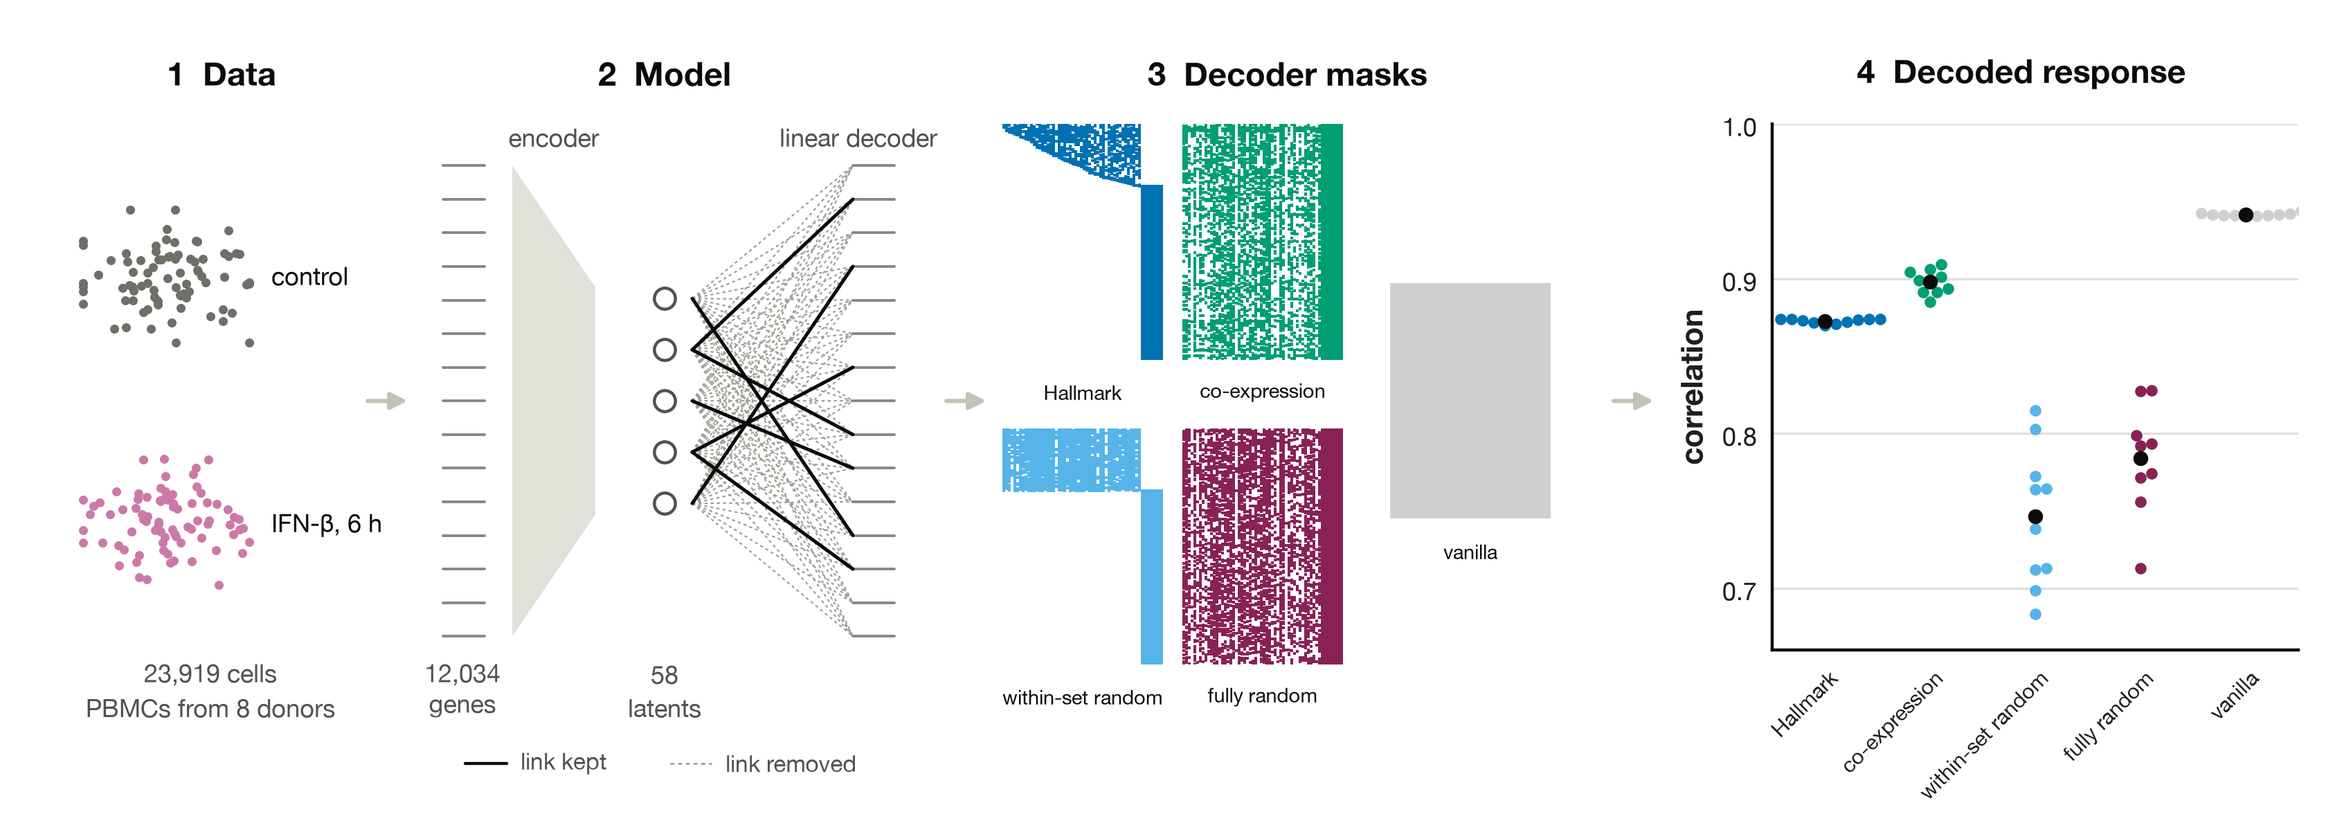
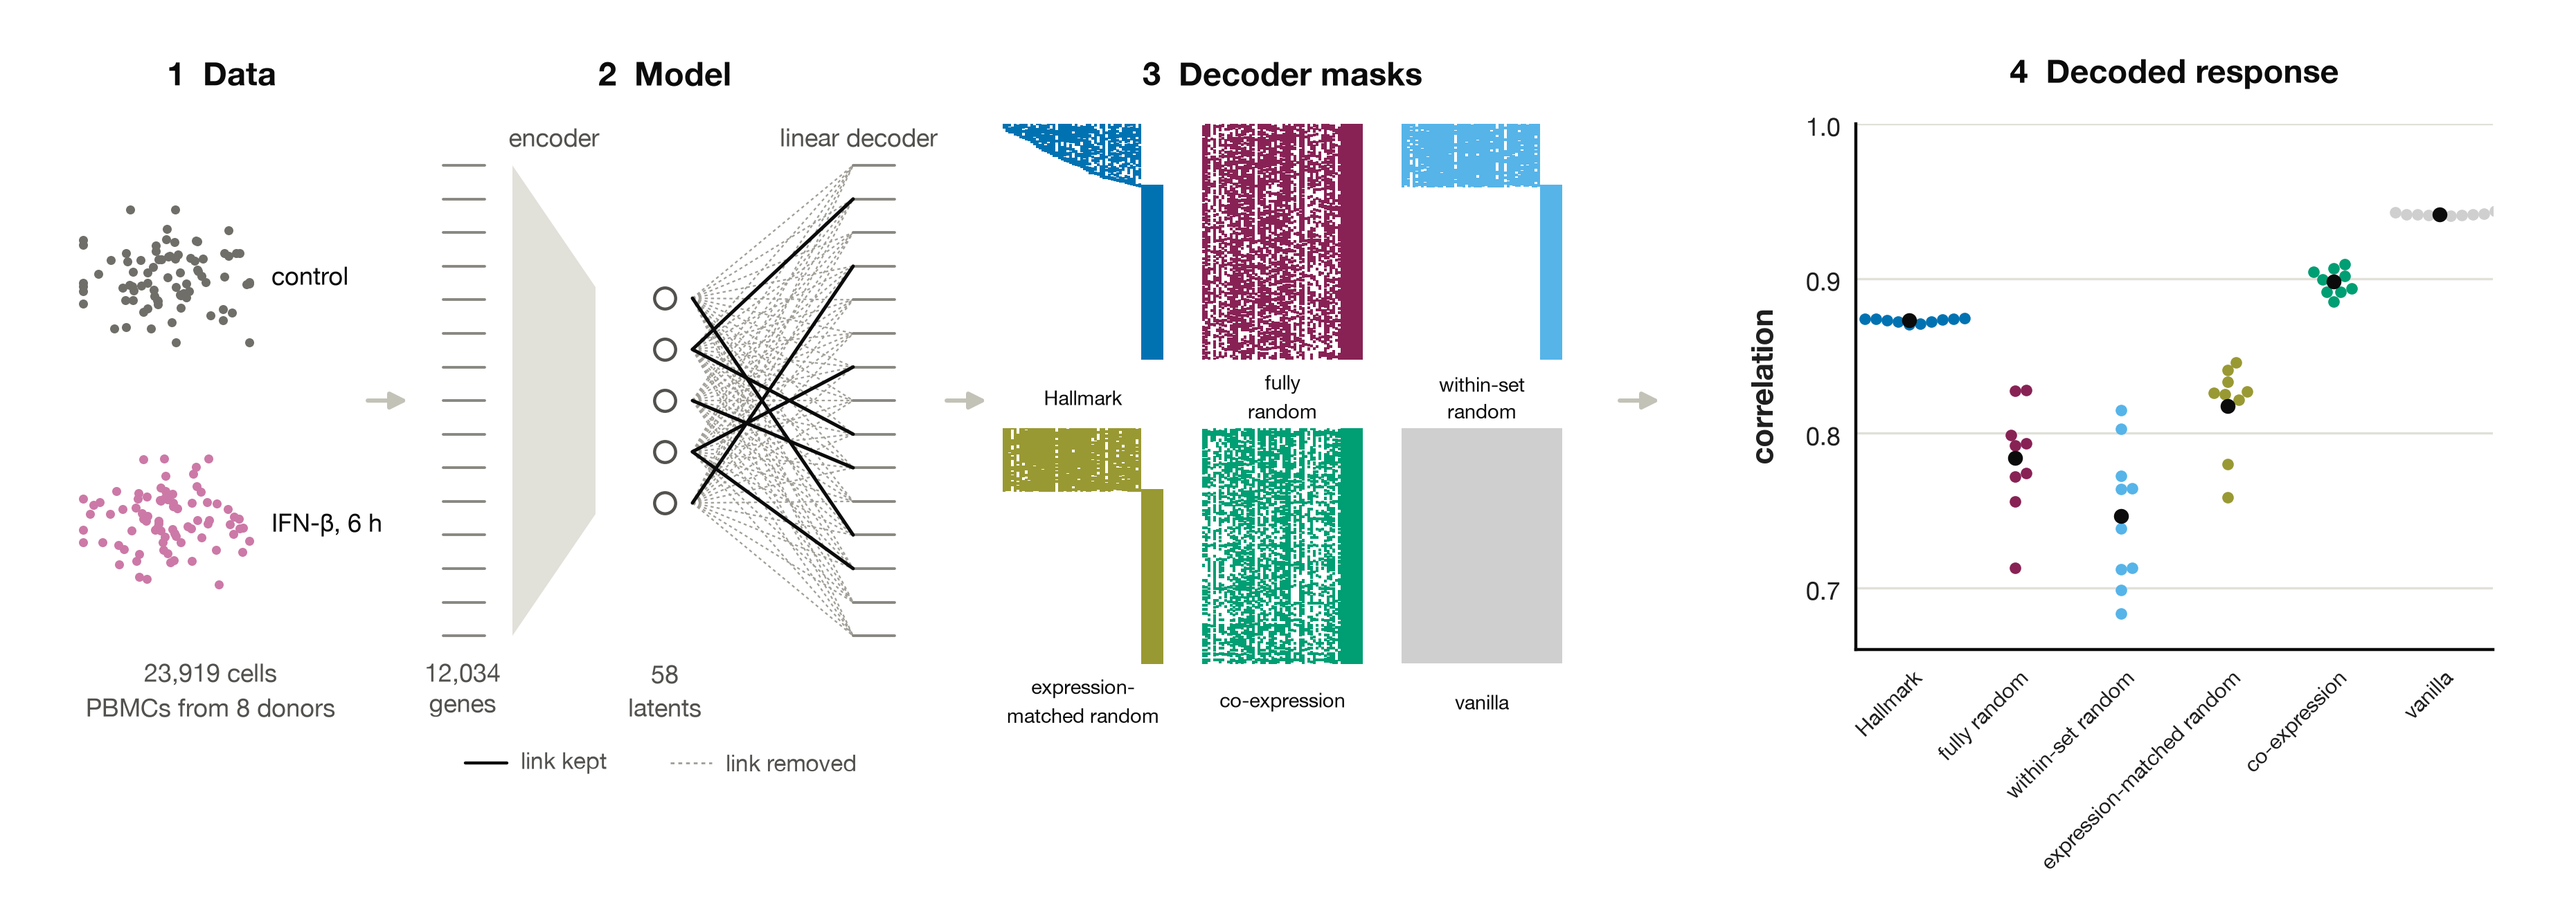
Draw six masks in the overview and pipeline, redraw the model schema

diff --git a/src/09b_model_schema.py b/src/09b_model_schema.py
@@ -1,0 +1,204 @@
+# Schema of the VAE (Methods, Model). Written to reports/figures/model.png and paper/figures/model.png, or to the directories
+# given as arguments. Standalone: it needs no tables. Each matrix is a solid: the height suggests its rows (the 12,034-row
+# plates are drawn shorter than to scale) and the depth its columns or cells (on a log scale).
+import math
+import sys
+from pathlib import Path
+
+import matplotlib
+
+matplotlib.use("Agg")
+import matplotlib.patches as mp
+import matplotlib.pyplot as plt
+from matplotlib.colors import to_rgb
+
+root = Path(__file__).resolve().parent.parent
+outs = [Path(a) for a in sys.argv[1:]] or [root / "reports" / "figures", root / "paper" / "figures"]
+
+ink, secondary, flow = "#0b0b0b", "#6b6a66", "#4d4d4b"  # text, brackets, arrows between layers
+C = dict(data=("#e3eef7", "#5b9bd5"), donor=("#f2f7fc", "#7aa6d0"), offsets=("#c4dbef", "#2f6fa8"), linear=("#dfe0f5", "#5b5fc7"),
+         relu=("#d3eeea", "#2a9d8f"), dropout=("#e4e4e0", "#8a8983"), mean=("#dcefdc", "#4c9a4c"), logvar=("#fde7c8", "#d98e04"),
+         latent=("#dde6ee", "#5f7a96"), free=("#f7f9fb", "#5f7a96"), mask=("#f1dfe8", "#882255"), weights=("#fafaf8", "#6b6a66"),
+         softmax=("#ecdcf0", "#a86fb5"))  # as in the pipeline figures where the parts coincide
+plt.rcParams.update({"font.family": "sans-serif", "font.sans-serif": ["Helvetica Neue", "Helvetica", "Arial", "DejaVu Sans"],
+                     "text.color": ink, "savefig.dpi": 300, "mathtext.default": "it"})
+
+W, H = 17.45, 8.95
+fig = plt.figure(figsize=(W * 0.52, H * 0.52))
+ax = fig.add_axes([0, 0, 1, 1]); ax.set(xlim=(0, W), ylim=(0, H)); ax.axis("off")
+
+FACE, UNIT, PLATE = 0.12, 0.01, 2.4  # width of a front face, height per unit of a small layer, height of a 12,034-row plate
+CELLS, LATENTS, DONORS = (0.15 * math.log10(n) for n in (16749, 58, 8))  # depth of a solid with that many columns
+cy = 5.8  # centre line of the encoder
+
+
+def mix(c, t, to=(1, 1, 1)):
+    return tuple(a + (b - a) * t for a, b in zip(to_rgb(c), to))
+
+
+def block(x, ymid, h, colour, depth, top=True, shade=0.3):
+    """A solid with sharp edges: front face in the fill colour, lighter top, darker side."""
+    fill, edge = colour
+    y0, dx, dy = ymid - h / 2, depth * 1.15, depth * 0.45
+    if top:
+        ax.add_patch(mp.Polygon([(x, y0 + h), (x + dx, y0 + h + dy), (x + FACE + dx, y0 + h + dy), (x + FACE, y0 + h)], fc=mix(fill, 0.55), ec=edge, lw=0.8, zorder=3))
+    ax.add_patch(mp.Polygon([(x + FACE, y0), (x + FACE + dx, y0 + dy), (x + FACE + dx, y0 + h + dy), (x + FACE, y0 + h)], fc=mix(fill, shade, to=to_rgb(edge)), ec=edge, lw=0.8, zorder=3))
+    ax.add_patch(mp.Rectangle((x, y0), FACE, h, fc=fill, ec=edge, lw=0.8, zorder=3.1))
+    return dict(x=x, r=x + FACE + dx, m=ymid, b=y0, t=y0 + h, dx=dx, dy=dy)
+
+
+def text(x, y, s, ha="center", va="center", fs=8, color=ink, **kw):
+    return ax.text(x, y, s, ha=ha, va=va, fontsize=fs, color=color, **kw)
+
+
+def mid(b):  # the middle of the horizontal projection of a solid
+    return b["x"] + (FACE + b["dx"]) / 2
+
+
+def above(b, s, fs=8):
+    text(mid(b), b["t"] + b["dy"] + 0.12, s, va="bottom", fs=fs)
+
+
+def below(b, s):
+    text(mid(b), b["b"] - 0.1, s, va="top")
+
+
+def beside(b, s, gap=0.1):  # next to the long edge, at mid-height
+    text(b["x"] - gap, b["m"], s, ha="right")
+
+
+def on_side(b, s):  # on the side face
+    text(b["x"] + FACE + b["dx"] / 2, b["m"] + b["dy"] / 2, s)
+
+
+def arrow(p0, p1, colour=flow, lw=0.7):
+    ax.annotate("", p1, p0, arrowprops=dict(arrowstyle="-|>", color=colour, lw=lw, mutation_scale=6, shrinkA=0, shrinkB=0), zorder=1)
+
+
+def line(xs, ys, colour=flow, lw=0.7, **kw):
+    ax.plot(xs, ys, color=colour, lw=lw, zorder=1, **kw)
+
+
+def equation(xc, y, parts, fs=9.5, gap=0.07):
+    """One equation centred on xc, each term in its own colour."""
+    r, inv = fig.canvas.get_renderer(), ax.transData.inverted()
+    objs = [text(0, y, s, ha="left", va="top", fs=fs, color=c) for s, c in parts]
+    ws = [inv.transform((o.get_window_extent(r).x1, 0))[0] - inv.transform((o.get_window_extent(r).x0, 0))[0] for o in objs]
+    x = xc - (sum(ws) + gap * (len(parts) - 1)) / 2
+    for o, w in zip(objs, ws):
+        o.set_x(x)
+        x += w + gap
+
+
+def matrix(letter):  # matrices in bold, counts and scalars upright
+    return "$\\mathbf{%s}$" % letter
+
+
+X = {k: v + 0.8 for k, v in dict(linear=3.05, relu=3.9, dropout=4.75, head=6.55, latent=10.15, weights=11.45).items()}
+X["data"] = X["mask"] = 1.9  # the input and the mask sit further in, to leave room for their labels
+h128, h58 = 128 * UNIT, 58 * UNIT
+spread = 1.15  # the two heads sit this far above and below the main axis
+axis = cy + CELLS * 0.45  # height of the main axis: the arrow from the input, the fork, the sampling and the decoder share it
+
+# input: the counts and, as a separate matrix below, the donor code that is appended to them
+data = block(X["data"], cy, PLATE, C["data"], CELLS)
+donor = block(X["data"], data["b"] - 0.55 - CELLS * 0.45 - 0.15, 0.3, C["donor"], CELLS)
+text(data["x"] - 0.4, data["m"], "input", ha="right")
+beside(data, "G"); below(data, "N")
+for x, y0, y1 in ((data["x"], data["b"], donor["t"]), (data["r"], data["b"] + data["dy"], donor["t"] + donor["dy"])):  # concatenated
+    line([x, x], [y0, y1], C["offsets"][1], 0.8, ls=(0, (1, 2.2)), alpha=0.7)
+beside(donor, "D", 0.15); on_side(donor, matrix("S"))
+yv = donor["m"] + donor["dy"]  # height of the line from the donor matrix: its rear middle
+cm = donor["b"] - 0.25 - PLATE / 2 - 0.07  # the mask sits just under the donor matrix
+mask = block(X["mask"], cm, PLATE, C["mask"], LATENTS)
+text(mask["x"] - 0.4, mask["m"], "mask " + matrix("M"), ha="right")
+beside(mask, "G"); below(mask, "58")
+
+# encoder: the log transform on the arrow, the hidden layer and the two heads
+linear, relu, dropout = (block(X[k], axis, h128, C[k], CELLS) for k in ("linear", "relu", "dropout"))
+for b, s in ((linear, "linear"), (relu, "ReLU"), (dropout, "dropout")):
+    above(b, s)
+below(linear, "128")
+arrow((data["r"], axis), (linear["x"], axis))
+text((data["r"] + linear["x"]) / 2, axis + 0.08, "log(1+x)", va="bottom")
+lift = 0.12  # arrows meet and leave the heads this far above their middle, on one horizontal
+mean = block(X["head"], axis + spread - lift, h58, C["mean"], CELLS)
+logvar = block(X["head"], axis - spread - lift, h58, C["logvar"], CELLS)
+above(mean, "$\\bar{\\mu}$", 9); above(logvar, "$\\log\\,\\sigma^{2}$", 9)
+below(mean, "58"); below(logvar, "58")
+arrow((dropout["r"], axis), (mean["x"], axis + spread)); arrow((dropout["r"], axis), (logvar["x"], axis - spread))
+
+# latent space: the named latents and the free ones, entered and left on the main axis
+named, zt = h58 - 8 * UNIT, axis - 0.12 + h58 / 2
+z = block(X["latent"], zt - named / 2, named, C["latent"], CELLS)
+block(X["latent"], zt - named - 4 * UNIT, 8 * UNIT, C["free"], CELLS, top=False)
+above(dict(z, t=zt), matrix("Z"), 9)
+text(mid(z), zt - h58 - 0.1, "58", va="top")
+
+# sampling: z = mu + sigma * epsilon with sigma = exp(log variance / 2); the two branches mirror each other around the axis
+r_node, r_exp = 0.2, 0.3
+y_exp, y_mean = axis - spread, axis + spread
+x_mult = logvar["r"] + 1.95
+x_exp = (logvar["r"] + x_mult - r_node) / 2  # midway between the log-variance block and the multiplication
+
+
+def node(x, y, s):
+    ax.add_patch(mp.Circle((x, y), r_node, fc="white", ec=ink, lw=0.9, zorder=3))
+    text(x, y - 0.02, s, fs=10, zorder=4)
+
+
+arrow((logvar["r"], y_exp), (x_exp - r_exp, y_exp))
+ax.add_patch(mp.Circle((x_exp, y_exp), r_exp, fc="white", ec=C["logvar"][1], lw=0.9, zorder=3))
+text(x_exp, y_exp - 0.02, "$e^{x/2}$", fs=8.5, zorder=4)
+arrow((x_exp + r_exp, y_exp), (x_mult - r_node, y_exp))
+node(x_mult, y_exp, "$\\odot$")
+text(x_mult, y_exp - r_node - 0.1, "$\\epsilon\\sim\\mathcal{N}(0,1)$", va="top", fs=9)
+arrow((x_mult, y_exp + r_node), (x_mult, axis - r_node)); text(x_mult + 0.1, (y_exp + axis) / 2, "$\\sigma$", ha="left", fs=9)
+line([mean["r"], x_mult], [y_mean, y_mean]); arrow((x_mult, y_mean), (x_mult, axis + r_node))
+node(x_mult, axis, "+")
+arrow((x_mult + r_node, axis), (z["x"], axis))
+
+# decoder: the masked weights, the donor offsets and the softmax, in one line
+weights = block(X["weights"], cy, PLATE, C["weights"], LATENTS, shade=0.1)
+x_mask, x_offsets = weights["r"] + 0.8, weights["r"] + 1.9  # where the mask and the offsets join the line
+softmax = block(x_offsets + 0.9, cy, PLATE, C["softmax"], CELLS)
+above(weights, "weights " + matrix("W")); above(softmax, "softmax")
+beside(weights, "G"); below(weights, "58"); below(softmax, "N")
+text(softmax["r"] + 0.1, softmax["m"] + softmax["dy"], "G", ha="left")
+arrow((z["r"], axis), (weights["x"], axis))
+arrow((weights["r"], axis), (softmax["x"], axis), ink, 0.9)
+equation(x_mask, axis - 0.16, [(matrix("W"), ink), ("$\\odot$", ink), (matrix("M"), C["mask"][1])])
+equation(x_offsets, axis - 0.16, [("+", ink), (matrix("V"), C["offsets"][1]), ("·", ink), (matrix("S"), C["offsets"][1])])
+y_join = axis - 0.45
+
+# the mask restricts the weights
+line([mask["r"] + 0.05, x_mask], [cm, cm], C["mask"][1], 0.9)
+arrow((x_mask, cm), (x_mask, y_join), C["mask"][1], 0.9)
+
+# the offsets V (genes x donors) take the donor matrix D straight from its rear middle; a gap where the mask arrow crosses
+offsets = block(x_offsets - (FACE + DONORS * 1.15) / 2, yv, PLATE, C["offsets"], DONORS)
+below(offsets, matrix("V") + " = G × D")
+line([donor["r"], x_mask - 0.14], [yv, yv], C["offsets"][1], 0.9); line([x_mask + 0.14, offsets["x"]], [yv, yv], C["offsets"][1], 0.9)
+text((donor["r"] + offsets["x"]) / 2, yv + 0.08, matrix("S"), va="bottom", color=C["offsets"][1])
+arrow((x_offsets, offsets["t"] + offsets["dy"] / 2), (x_offsets, y_join), C["offsets"][1], 0.9)
+
+# stages: brackets over the parts, with the same small gap between neighbours
+y_br, gap = axis + 2.25, 0.12
+
+
+def bracket(x0, x1, label):
+    line([x0, x1], [y_br, y_br], secondary, 0.9)
+    for x in (x0, x1):
+        line([x, x], [y_br, y_br - 0.12], secondary, 0.9)
+    text((x0 + x1) / 2, y_br + 0.1, label, va="bottom", fs=9, fontweight="bold")
+
+
+bracket(data["r"] + 0.15, logvar["r"] + 0.1, "encoder")
+bracket(logvar["r"] + 0.1 + gap, z["x"] - 0.1 - gap, "sampling")
+bracket(z["x"] - 0.1, z["r"] + 0.1, "latent space")
+bracket(z["r"] + 0.1 + gap, softmax["r"] + 0.1, "decoder")
+
+for d in outs:
+    d.mkdir(parents=True, exist_ok=True)
+    fig.savefig(d / "model.png")
+plt.close(fig)

diff --git a/src/09_figures.py b/src/09_figures.py
@@ -125,9 +125,11 @@ def chance(ax):
         ax.set_ylim(min(low, 0.48), high)
 
 
-# 0. Overview banner: data, VAE with and without a mask, the five decoder masks as trained with seed 0, and the
+# 0. Overview banner: data, VAE with and without a mask, the six decoder masks as trained with seed 0, and the
 # decoded response of every seed
-W, H = 8.2, 2.7
+ov_colors = {**colors, "responsematch": "#999933"}  # olive of the Tol muted palette, for the expression-matched random mask of this figure only
+ov_names = {**names, "responsematch": "expression-matched random"}
+W, H = 9.1, 2.7
 fig = plt.figure(figsize=(W, H))
 bg = fig.add_axes([0, 0, 1, 1])
 bg.set(xlim=(0, W), ylim=(0, H))
@@ -166,7 +168,7 @@ def swarm(y, d_x, d_y):
     return xs
 
 
-for x, head in [(0.7, "1  Data"), (2.3, "2  Model"), (4.55, "3  Decoder masks"), (7.2, "4  Decoded response")]:
+for x, head in [(0.7, "1  Data"), (2.3, "2  Model"), (4.53, "3  Decoder masks"), (7.75, "4  Decoded response")]:
     label(x, 2.53, head, size=8.5, color=ink, weight="bold")  # each title centred over its panel
 
 # 1 data: two clouds of cells
@@ -213,6 +215,7 @@ arrow(3.29, 3.49)
 # columns the 58 latents (50 named, then 8 free)
 hm = np.load("data/processed/masks_hallmark.npz")
 co = np.load("data/processed/coexpression_hallmark.npz")
+rm = np.load("data/processed/masks_hallmark_responsematch.npz")  # the expression-matched random masks (src/04b_build_responsematch.py)
 ss = np.load("data/processed/masks_hallmark_setshuffle.npz")
 sets = hm["real"]
 
@@ -228,38 +231,36 @@ rows = np.argsort(np.where(sets.any(axis=1), sets.argmax(axis=1), 50), kind="sta
 position = np.argsort(rows)  # row of each gene in the sorted display
 shuffle_row = list(hm["levels"]).index(1.0)
 masks = {"real": full(sets), "coexpression": full(co["modules"][0]), "shuffled": full(sets[hm["perms"][shuffle_row, 0]]),
-         "setshuffle": full(sets[ss["perms"][0]]), "vanilla": np.ones((sets.shape[0], 58))}
-mask_names = {"real": "Hallmark", "coexpression": "co-expression", "shuffled": "fully random", "setshuffle": "within-set random",
-              "vanilla": "vanilla"}
-for k, v in enumerate(["real", "coexpression", "setshuffle", "shuffled", "vanilla"]):
-    if v == "vanilla":  # third column, centred on the arrows
-        x, y = 4.92, 1.35 - 0.85 / 2
-    else:  # the four masks in a 2 x 2 block
-        x, y = 3.52 + (k % 2) * 0.65, 1.5 - (k // 2) * 1.1
+         "setshuffle": full(sets[ss["perms"][0]]), "responsematch": full(sets[rm["perms"][0]]), "vanilla": np.ones((sets.shape[0], 58))}
+mask_names = {"real": "Hallmark", "coexpression": "co-expression", "shuffled": "fully\nrandom", "setshuffle": "within-set\nrandom",
+              "responsematch": "expression-\nmatched random", "vanilla": "vanilla"}
+cells = {"real": (0, 0), "shuffled": (1, 0), "setshuffle": (2, 0), "responsematch": (0, 1), "coexpression": (1, 1), "vanilla": (2, 1)}  # column and row, in the order of the tables with vanilla last
+for v in ["real", "shuffled", "setshuffle", "responsematch", "coexpression", "vanilla"]:
+    x, y = 3.52 + cells[v][0] * 0.72, 1.5 - cells[v][1] * 1.1  # the six masks in a 3 x 2 block
     ax = inset(x, y, 0.58, 0.85)
     ax.set(xlim=(-0.5, 57.5), ylim=(len(rows) - 0.5, -0.5), xticks=[], yticks=[])
     if v == "vanilla":
-        ax.add_patch(plt.Rectangle((-0.5, -0.5), 58, len(rows), color=colors[v], lw=0))  # every gene reaches every latent
+        ax.add_patch(plt.Rectangle((-0.5, -0.5), 58, len(rows), color=ov_colors[v], lw=0))  # every gene reaches every latent
     else:
         genes_, latents_ = np.nonzero(masks[v])
-        ax.scatter(latents_, position[genes_], s=0.5, marker="s", color=colors[v], lw=0)
+        ax.scatter(latents_, position[genes_], s=0.5, marker="s", color=ov_colors[v], lw=0)
     ax.grid(False)
     for side in ax.spines.values():
         side.set_visible(False)
-    label(x + 0.29, y - 0.12, mask_names[v], color=ink, size=5.2)
-arrow(5.7, 5.9)
+    label(x + 0.29, y - 0.14, mask_names[v], color=ink, size=5.2)
+arrow(5.72, 5.92)
 
 # 4 result: decoded response (correlation of the decoded and observed stimulation shift across genes) of every seed as a
 # beeswarm, the mean printed under each bar
 response = pd.read_csv(tables / "diagnostics_response.csv")
-variants = ["real", "coexpression", "setshuffle", "shuffled", "vanilla"]  # same order as the masks in stage 3
-width_in, height_in, low, high = 1.9, 1.9, 0.66, 1.0
-ax = inset(6.3, 0.45, width_in, height_in)
+variants = ["real", "shuffled", "setshuffle", "responsematch", "coexpression", "vanilla"]  # same order as the masks in stage 3
+width_in, height_in, low, high = 2.3, 1.9, 0.66, 1.0
+ax = inset(6.6, 0.45, width_in, height_in)
 dot_in = 0.04
 for i, v in enumerate(variants):
     y_ = response[response["variant"] == v]["lfc_corr"].to_numpy()
     x_ = i + swarm(y_, dot_in / (width_in / len(variants)), dot_in / (height_in / (high - low)))
-    seed_dots(ax, x_, y_, colors[v])
+    seed_dots(ax, x_, y_, ov_colors[v])
     mean_dot(ax, i, y_.mean())
 ax.set(xlim=(-0.5, len(variants) - 0.5), ylim=(low, high), yticks=[0.7, 0.8, 0.9, 1.0], yticklabels=["0.7", "0.8", "0.9", "1.0"])
 ax.set_ylabel("correlation")
@@ -267,7 +268,7 @@ ax.yaxis.set_label_coords(-0.12, 0.5)
 ax.tick_params(axis="y", labelsize=6.5)
 for side in ("left", "bottom"):
     ax.spines[side].set_color(ink)
-ax.set_xticks(range(len(variants)), [names[v] for v in variants], fontsize=5.5, rotation=45, ha="right", rotation_mode="anchor")
+ax.set_xticks(range(len(variants)), [ov_names[v] for v in variants], fontsize=5.5, rotation=45, ha="right", rotation_mode="anchor")
 ax.grid(axis="x", visible=False)
 fig.savefig(out / "overview.png")
 plt.close(fig)
@@ -342,9 +343,9 @@ if (tables / "learning_curves_scores.csv").exists():
 phases = {"Data": ("#e3eef7", "#5b9bd5"), "Design": ("#f1dfe8", "#882255"), "Model": ("#ecdcf0", "#a86fb5"),
           "Evaluation": ("#d6eeea", "#2a9d8f")}
 steps = [("Data", "Single-cell\ndata"), ("Data", "Cell QC"), ("Data", "Gene\nfilter"), ("Design", "Split"),
-         ("Design", "Gene sets"), ("Design", "Five\nmasks"), ("Model", "VAE"), ("Evaluation", "Measures"), ("Evaluation", "Tests")]
+         ("Design", "Gene sets"), ("Design", "Six\nmasks"), ("Model", "VAE"), ("Evaluation", "Measures"), ("Evaluation", "Tests")]
 stacks = {0: [("Kang et al. IFN-β", 0), ("Theis et al.", 0), ("IFN-β", 1), ("IL-2", 1)], 4: [("Hallmark", 0), ("Reactome", 0)],
-          5: [("gene sets", 0), ("co-expression", 0), ("random", 0), ("fully random", 1), ("within-set random", 1), ("vanilla", 0)],
+          5: [("gene sets", 0), ("co-expression", 0), ("random", 0), ("fully random", 1), ("within-set random", 1), ("expression-\nmatched", 1), ("vanilla", 0)],
           2: [("Without the 250\nstrongest genes", 0)],
           3: [("Learning curves", 0), ("500 cells", 1), ("1,000 cells", 1), ("2,000 cells", 1), ("4,000 cells", 1),
               ("8,000 cells", 1), ("all 16,749", 1)],
